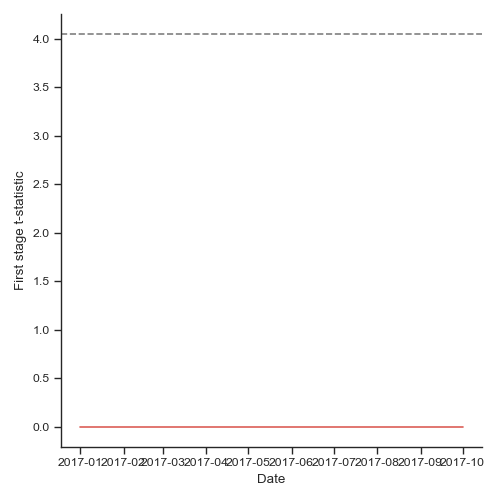
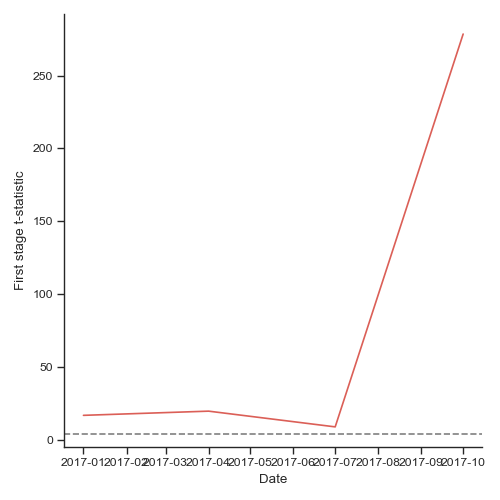
todo fix graphs

diff --git a/data/FED/fed_treasury_holding.py b/data/FED/fed_treasury_holding.py
@@ -14,8 +14,14 @@ def last_wednesday_of_quarter(q: pd.Period):
     return last_wednesday.strftime('%Y-%m-%d')
 
 
-def call_api(as_of_date: str):
+def call_treasury_api(as_of_date: str):
     url = f'https://markets.newyorkfed.org/api/soma/tsy/get/asof/{as_of_date}.json'
+    response = requests.get(url)
+    return json.loads(response.text)['soma']['holdings']
+
+
+def call_agency_api(as_of_date: str):
+    url = f'https://markets.newyorkfed.org/api/soma/agency/get/asof/{as_of_date}.json'
     response = requests.get(url)
     return json.loads(response.text)['soma']['holdings']
 
@@ -38,8 +44,12 @@ if __name__ == '__main__':
 
     for q in period_range:
         as_of_date = last_wednesday_of_quarter(q)
-        data = call_api(as_of_date)
-        df_q = pd.DataFrame(data=data, columns=cols).assign(date=q)
+        treasury_data = call_treasury_api(as_of_date)
+        agency_data = call_agency_api(as_of_date)
+
+        df_q = (pd.DataFrame(data=treasury_data + agency_data,
+                             columns=cols)
+                .assign(date=q))
         df = pd.concat([df, df_q])
         print('Imported  ', q)
 
